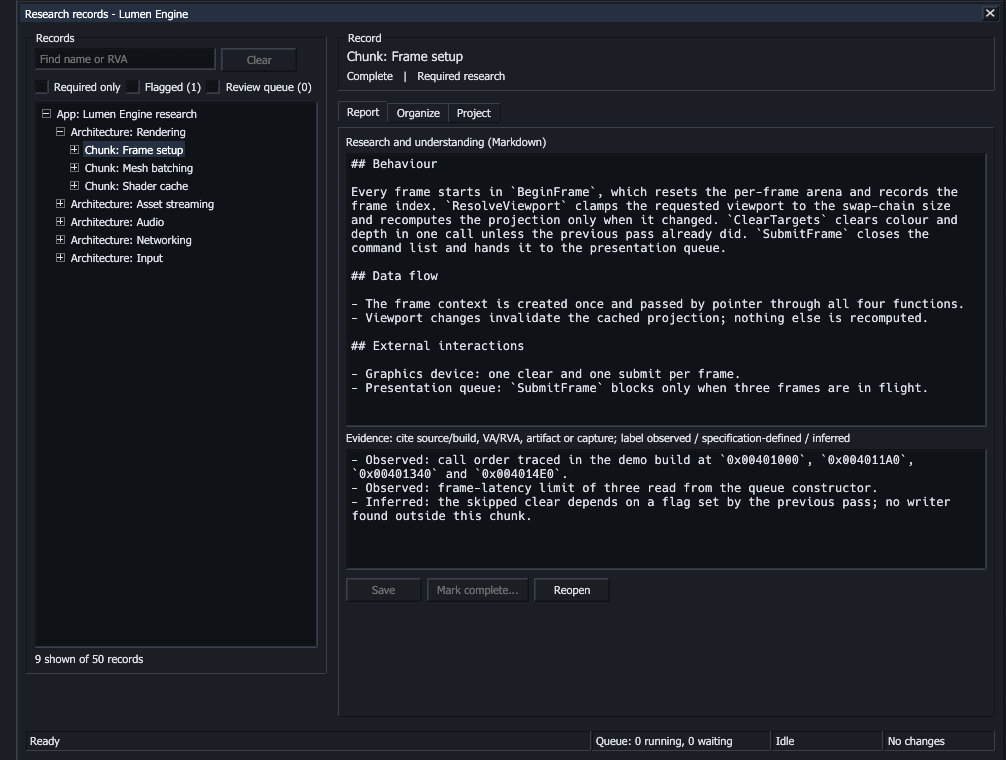
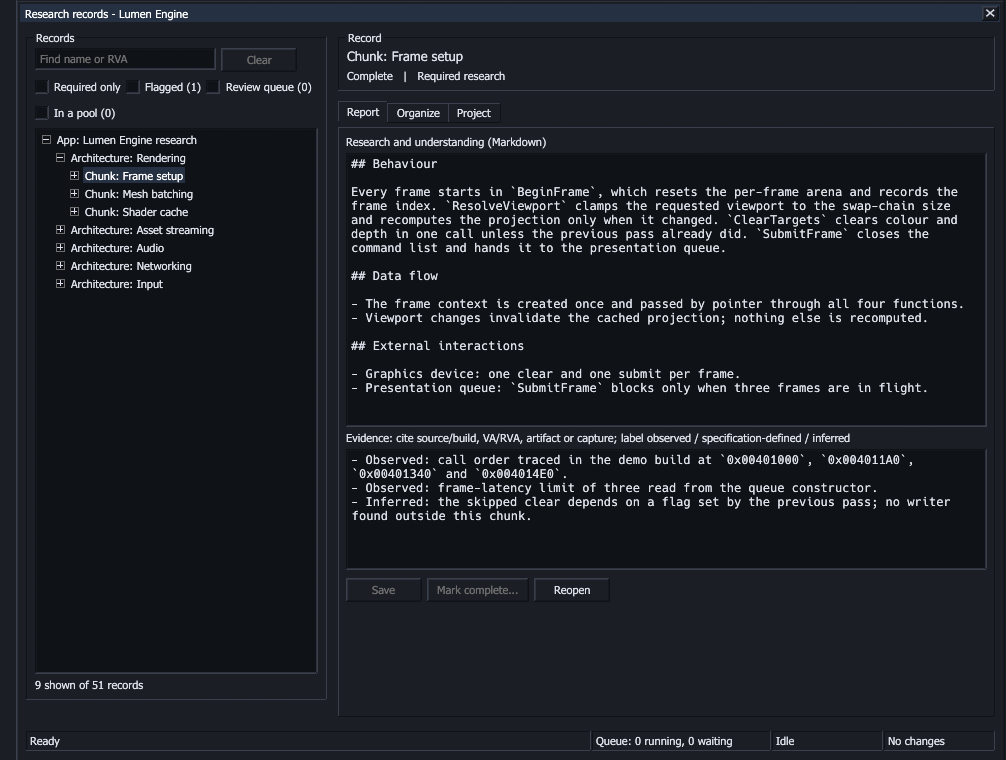
chore(release): prepare 0.15.0a
Raise the version to 0.15.0-alpha (product 0.15.0a), turn the
Unreleased changelog into the 0.15.0a section, and write the release
notes. The README and guides describe data items, address spaces, the
project store and promotion, and its screenshots are retaken from the
fictional demo project with this build (the dashboard's Research and
Implementation switch, the records window's pool filter).

Changed region(s): [[0.0308, 0.1211, 0.2157, 0.3934], [0.0308, 0.8474, 0.1541, 0.9079]]

diff --git a/CHANGELOG.md b/CHANGELOG.md
@@ -2,21 +2,37 @@
 
 ## Unreleased
 
+## 0.15.0a - 2026-10-29
+
+Release notes, validation and the commit ledger: [docs/releases/0.15.0a.md](docs/releases/0.15.0a.md). A minor release: data items, the project store and promotion, research pools and proofs are new since 0.14.0a, listed below with the fixes from the reviews of each batch.
+
+### New
+
+- **Data items** ([proposal](docs/proposal-storage-backend.md)). A chunk holds data items (globals, tables, strings, vtables) beside its functions, each with an RVA, a length in bytes and its own report in `D<RVA>/`. They are researched like functions: evidence to complete, prerequisites to and from functions, flags, claims and pools. An RVA names one record of either kind. `node create --length`, `"length"` in batches and imports, `node list --kind data`, and `data_items` counts in `status`; the record panel adds **Add data item**. The first data item raises the catalog to format 6, which earlier versions cannot open; projects without data keep format 5.
+- **The project store, side by side** ([design](docs/design-storage-backend.md), [proposal](docs/proposal-storage-backend.md)). `research store init PROJECT` (the manual migration step) builds the project's whole catalog history from its change receipts into `<project>/store/`: checksummed JSON entries per revision, catalog checkpoints and report texts compressed with zlib, each checkpoint verified against the recorded fingerprint. The store follows the receipts every writer leaves (`store sync`), so it never takes part in a commit and the files stay authoritative. A change without a receipt is recorded as a gap. `store status` shows how far behind it is and `store verify` checks it end to end. `store history PROJECT NODE` lists every revision that changed a record or its report, `store show PROJECT NODE --revision N` gives the record and its report text at revision N, and `store catalog PROJECT --revision N --out FILE` rebuilds the whole catalog at N, checked against its recorded fingerprint. The coordinator syncs a project's store when its writer is idle.
+- **The store follows the annotation ledger** ([design](docs/design-storage-promotion.md), [proposal](docs/proposal-storage-promotion.md)). `store sync`, and the coordinator whenever the ledger changes, record the project tools' ledger row by row beside the catalog history (rows and types added, removed and changed); the ledger itself stays authoritative. `store annotations PROJECT ADDRESS` shows an address's rows through that history, and `store conflicts PROJECT` lists where the catalog and the ledger disagree (names, kinds, report pins, unknown kinds), which must be resolved before the store is adopted.
+- **`store compact`** merges the small text packs frequent syncs leave and compresses closed segments' logs; a sync compacts by itself past 64 small packs.
+- **Artifacts and address spaces** ([design](docs/design-storage-promotion.md)). `project artifact add|update|remove` records a project's input files (name, SHA-256, size, format, and the artifact a file is extracted from), and `project space add|update|remove` adds address spaces besides the default one: offsets in a file (data disks with no program of their own), another image or another processor. `node create --space` and `"space"` in batches and imports place a function or data item in a space; an address is unique per space, spaced records have `S<n>-` folders, and `deps set` names them `S<n>:<RVA>`. The first artifact or space raises the catalog to format 7, which earlier versions cannot open.
+- **`store promote`** (the user's manual step) makes the store authoritative for a project once it holds the current catalog, verifies and reports no conflicts: the catalog moves to format 8, every commit appends to the store before `project.json` is written, receipts stop, and history reads the store. Interrupted commits finish on the next command as before.
+- **Acceptance covers the research body and evidence once a project is promoted.** Promotion converts every acceptance, prerequisite stamp and ledger pin that still verifies to the hash of the report from its research content on, in one transaction, and keeps every old and new hash; renames, moves and identity amendments then leave completion and pins alone. `research annotate set|remove` change annotation rows of a promoted project, recorded in its store, and `annotate stale` lists rows whose report pin no longer matches.
+- **Research pools replace quarantine** ([proposal](docs/proposal-research-pools.md)). A pooled chunk or function (`research pool add`, or **Research pool** in the record panel) can be changed only by its pool's members: saves, completion, flags, claims, proofs, its prerequisites and structural changes. Every other agent may read it and build on it, and is offered it as open work never. Unlike quarantine, its status is its own, so it stays open work until it is researched. Agents register in the home (`research agent register`), and the human directs who joins (`pool join`). `node quarantine`, `unquarantine` and `quarantined` are gone. `pool migrate-quarantine` moves 0.14 quarantine records into the pool `quarantine`; until then, writes to a project with quarantine records are refused.
+- **Proofs** ([proposal](docs/proposal-proof-records.md)). A function record can name its recreation and the tests that check it (`node proof`, `node proof-batch`). A project can require proof (`project set-proof --required true`): completing a function then needs one, and with `--repository` the cited files must exist. Functions completed earlier stay complete and are listed by `node unproven --complete` and counted in `status`. Stored in a journaled `proofs.json` sidecar.
+- **Shared work queue** ([proposal](docs/proposal-shared-work-queue.md)). `research job run --shared --resource NAME -- COMMAND` leases a resource of the research home rather than of a project, such as a verification worktree every session commits through: the same fair ordering, joining and release on a dead holder as project leases, with lock files in direct mode. It shows in `research queue --shared`, `job status --shared`, every project's `queue` (`shared_leases`) and the dashboard's queue panes.
+- **`deps set` conflicts only on the function's own prerequisites** ([proposal](docs/proposal-deps-record-token.md)). `node show` now issues an `s5:` `structural_token` that binds that function's prerequisite list and the binary identity, instead of the project-wide structural epoch. Moves, renames, report saves and other functions' prerequisite changes no longer make it stale, so sessions working one project stop invalidating each other's tokens. Cycles, missing prerequisites and the seal are still checked when `deps set` runs. `s4:` tokens keep their old meaning.
+- **Commands run as their caller through the coordinator** ([proposal](docs/proposal-caller-identity.md)). The coordinator recorded every operation under the name of the client that started it, so `impl complete` marks named the wrong agent. Each operation now runs as the submitter its own client sent.
+
+### Performance
+
+- **`store sync` after a few commits no longer reads every receipt's metadata**: it looks up only the receipts it steps over (a one-commit sync of `3-3-5a` went from 12.8 s to 1 s).
+
+### Fixed
+
 Fixes from the third and fourth bug reviews ([proposal](docs/proposal-bug-review-3.md)):
 
 - The store no longer deletes a segment log that still holds entries because its first frame is damaged or its checkpoint is missing; it refuses with `store_damaged`. Only the empty log an interrupted segment creation leaves is removed.
 - A store reader no longer fails when a compaction replaces the text packs while it reads; it indexes the store again.
 - History reports changes to artifacts, spaces and the catalog format, which showed as empty commits.
 - `node show` and the dashboard write a prerequisite in another address space as `S<n>:0x…`, so a record's prerequisites can be saved back unchanged; `node list` and implementation links show each record's `space`.
-
-- **Artifacts and address spaces** ([design](docs/design-storage-promotion.md)). `project artifact add|update|remove` records a project's input files (name, SHA-256, size, format, and the artifact a file is extracted from), and `project space add|update|remove` adds address spaces besides the default one: offsets in a file (data disks with no program of their own), another image or another processor. `node create --space` and `"space"` in batches and imports place a function or data item in a space; an address is unique per space, spaced records have `S<n>-` folders, and `deps set` names them `S<n>:<RVA>`. The first artifact or space raises the catalog to format 7, which earlier versions cannot open.
-- **`store promote`** (the user's manual step) makes the store authoritative for a project once it holds the current catalog, verifies and reports no conflicts: the catalog moves to format 8, every commit appends to the store before `project.json` is written, receipts stop, and history reads the store. Interrupted commits finish on the next command as before.
-- **Acceptance covers the research body and evidence once a project is promoted.** Promotion converts every acceptance, prerequisite stamp and ledger pin that still verifies to the hash of the report from its research content on, in one transaction, and keeps every old and new hash; renames, moves and identity amendments then leave completion and pins alone. `research annotate set|remove` change annotation rows of a promoted project, recorded in its store, and `annotate stale` lists rows whose report pin no longer matches.
-- **`store sync` after a few commits no longer reads every receipt's metadata**: it looks up only the receipts it steps over (a one-commit sync of `3-3-5a` went from 12.8 s to 1 s).
-- **`store compact`** merges the small text packs frequent syncs leave and compresses closed segments' logs; a sync compacts by itself past 64 small packs.
-- **The store follows the annotation ledger** ([design](docs/design-storage-promotion.md), [proposal](docs/proposal-storage-promotion.md)). `store sync`, and the coordinator whenever the ledger changes, record the project tools' ledger row by row beside the catalog history (rows and types added, removed and changed); the ledger itself stays authoritative. `store annotations PROJECT ADDRESS` shows an address's rows through that history, and `store conflicts PROJECT` lists where the catalog and the ledger disagree (names, kinds, report pins, unknown kinds), which must be resolved before the store is adopted.
-- **The project store, side by side** ([design](docs/design-storage-backend.md), [proposal](docs/proposal-storage-backend.md)). `research store init PROJECT` (the manual migration step) builds the project's whole catalog history from its change receipts into `<project>/store/`: checksummed JSON entries per revision, catalog checkpoints and report texts compressed with zlib, each checkpoint verified against the recorded fingerprint. The store follows the receipts every writer leaves (`store sync`), so it never takes part in a commit and the files stay authoritative. A change without a receipt is recorded as a gap. `store status` shows how far behind it is and `store verify` checks it end to end. `store history PROJECT NODE` lists every revision that changed a record or its report, `store show PROJECT NODE --revision N` gives the record and its report text at revision N, and `store catalog PROJECT --revision N --out FILE` rebuilds the whole catalog at N, checked against its recorded fingerprint. The coordinator syncs a project's store when its writer is idle.
-- **Data items** ([proposal](docs/proposal-storage-backend.md)). A chunk holds data items (globals, tables, strings, vtables) beside its functions, each with an RVA, a length in bytes and its own report in `D<RVA>/`. They are researched like functions: evidence to complete, prerequisites to and from functions, flags, claims and pools. An RVA names one record of either kind. `node create --length`, `"length"` in batches and imports, `node list --kind data`, and `data_items` counts in `status`; the record panel adds **Add data item**. The first data item raises the catalog to format 6, which earlier versions cannot open; projects without data keep format 5.
 
 Fixes from the review of this batch ([proposal](docs/proposal-review-fixes-4.md)):
 
@@ -33,12 +49,6 @@ Fixes from the review of those fixes ([proposal](docs/proposal-review-fixes-5.md
 - A write that changes nothing, or one the pool guard refuses, no longer creates an empty sidecar file (which the coordinator recorded as drift), and a repeated quarantine migration commits nothing.
 - The coordinator's queue answer shows lock files held by jobs run without a coordinator, from one scan per poll; batches check pools once.
 - The dashboard lets the human give a chunk-covered function a pool of its own.
-
-- **Shared work queue** ([proposal](docs/proposal-shared-work-queue.md)). `research job run --shared --resource NAME -- COMMAND` leases a resource of the research home rather than of a project, such as a verification worktree every session commits through: the same fair ordering, joining and release on a dead holder as project leases, with lock files in direct mode. It shows in `research queue --shared`, `job status --shared`, every project's `queue` (`shared_leases`) and the dashboard's queue panes.
-- **Research pools replace quarantine** ([proposal](docs/proposal-research-pools.md)). A pooled chunk or function (`research pool add`, or **Research pool** in the record panel) can be changed only by its pool's members: saves, completion, flags, claims, proofs, its prerequisites and structural changes. Every other agent may read it and build on it, and is offered it as open work never. Unlike quarantine, its status is its own, so it stays open work until it is researched. Agents register in the home (`research agent register`), and the human directs who joins (`pool join`). `node quarantine`, `unquarantine` and `quarantined` are gone. `pool migrate-quarantine` moves 0.14 quarantine records into the pool `quarantine`; until then, writes to a project with quarantine records are refused.
-- **Commands run as their caller through the coordinator** ([proposal](docs/proposal-caller-identity.md)). The coordinator recorded every operation under the name of the client that started it, so `impl complete` marks named the wrong agent. Each operation now runs as the submitter its own client sent.
-- **Proofs** ([proposal](docs/proposal-proof-records.md)). A function record can name its recreation and the tests that check it (`node proof`, `node proof-batch`). A project can require proof (`project set-proof --required true`): completing a function then needs one, and with `--repository` the cited files must exist. Functions completed earlier stay complete and are listed by `node unproven --complete` and counted in `status`. Stored in a journaled `proofs.json` sidecar.
-- **`deps set` conflicts only on the function's own prerequisites** ([proposal](docs/proposal-deps-record-token.md)). `node show` now issues an `s5:` `structural_token` that binds that function's prerequisite list and the binary identity, instead of the project-wide structural epoch. Moves, renames, report saves and other functions' prerequisite changes no longer make it stale, so sessions working one project stop invalidating each other's tokens. Cycles, missing prerequisites and the seal are still checked when `deps set` runs. `s4:` tokens keep their old meaning.
 
 ## 0.14.0a - 2026-10-24
 

diff --git a/docs/releases/0.15.0a.md b/docs/releases/0.15.0a.md
@@ -1,0 +1,112 @@
+# Scopework 0.15.0a
+
+**Comparison range:** `v0.14.0a..v0.15.0a` (the tag is placed on the package commit). A minor release under the version rules in [docs/building.md](../building.md): it adds features (data items, the project store and its promotion, artifacts and address spaces, research pools, proofs, the shared work queue), so 0.14.0a becomes 0.15.0a.
+
+**Upgrading.** This package is Build BUILD_PLACEHOLDER, MSI version 0.15.BUILD_SHORT. It upgrades 0.8.0 and every 0.13.x and 0.14.x package in place; the UpgradeCode, executable names and research home are unchanged. Nothing changes on upgrade: a project's catalog moves to a newer format only when it uses something new, and earlier versions then refuse it (format 6 with its first data item, 7 with an artifact or address space, 8 when promoted). A project's store is optional (`research store init`), and promotion is the owner's one-way decision. Projects with quarantine records from 0.14 refuse writes until `research pool migrate-quarantine` moves them into a pool.
+
+## What changed
+
+The full list is in the [changelog](../../CHANGELOG.md#0150a---2026-10-29); this is a summary by area.
+
+### New
+
+- **Data items** ([proposal](../proposal-storage-backend.md)). Globals, tables, strings and vtables are records beside the functions in a chunk, with an address and a length, researched like functions and connected to them by prerequisites in either direction.
+- **The project store** ([design](../design-storage-backend.md)). `research store init` builds a project's whole history from its receipts into a compressed store beside the files, which stay authoritative; `store history`, `show` and `catalog` answer for any revision; the coordinator keeps it current. It also follows the project tools' annotation ledger row by row and lists where the ledger and the catalog disagree (`store conflicts`, `store annotations`). `store compact` keeps it small: 38 MB for `3-3-5a`'s 37,910 commits, against 277 MB of receipts.
+- **Artifacts and address spaces** ([design](../design-storage-promotion.md)). A project names its input files and adds address spaces besides the default one (a file's offsets, another image, another processor), so data-only projects have somewhere to put their research.
+- **Promotion** ([design](../design-storage-promotion.md)). `research store promote`, the owner's step, makes the store authoritative: commits write it, receipts stop, and acceptance moves to the research body and evidence, so renames, moves and identity amendments no longer touch completion. `research annotate` changes annotation rows of a promoted project.
+- **Research pools replace quarantine** ([proposal](../proposal-research-pools.md)). Only a pool's registered members change its records; everyone else may read and build on them.
+- **Proofs** ([proposal](../proposal-proof-records.md)): a function can name its recreation and the tests that check it, and a project can require one to complete a function.
+- **Shared work queue** ([proposal](../proposal-shared-work-queue.md)): `job run --shared` leases a resource of the whole research home, such as a verification worktree.
+- **`deps set` conflicts only on the function's own prerequisites** ([proposal](../proposal-deps-record-token.md)), and **commands run as their caller** through the coordinator ([proposal](../proposal-caller-identity.md)).
+
+### Fixed
+
+From the reviews of each batch ([review fixes 4](../proposal-review-fixes-4.md), [5](../proposal-review-fixes-5.md)), the app-wide reviews of 2026-10-27 ([quality 1](../proposal-quality-review-1.md), [2](../proposal-quality-review-2.md), [3](../proposal-quality-review-3.md), [bugs 1](../proposal-bug-review-1.md), [2](../proposal-bug-review-2.md)) and of 2026-10-29 ([quality 4](../proposal-quality-review-4.md), [bugs 3](../proposal-bug-review-3.md)). The most important:
+- The store never deletes a segment log that still holds entries; damage is refused (`store_damaged`), not repaired away.
+- A prerequisite in another address space is written `S<n>:0x…`, so saving a record's prerequisites back cannot change them.
+- A coordinator whose home was deleted exits even with stuck work, and no longer recreates the home.
+- Pool access is checked on every write path, and only members take records out of a pool.
+
+### Performance
+
+- A store sync after a few commits looks up only the receipts it steps over (one commit on `3-3-5a`: 12.8 s to 1 s), and a promoted commit reads only the store's active segment.
+
+## Validation
+
+- **Tests:** `cargo test --all-targets` passes on Windows (250 tests). Every fix from the reviews has a regression test.
+- **Lint:** `cargo clippy --all-targets -- -D warnings` reports nothing and `cargo fmt --check` is clean.
+- **On copies of `3-3-5a`** (read only from the live home): store init, verify and compaction over 37,910 commits; a promotion rehearsal converted 5,466 acceptances with every one of 31,514 records keeping its effective status; commits after promotion take as long as a read. Details are in [the proposal](../proposal-storage-promotion.md#validation-2026-10-28).
+- **Packaging:** `installer/build.ps1` reserved Build BUILD_PLACEHOLDER and packaged `Scopework-0.15.0a-x64.msi`. The executable reports `Scopework 0.15.0a (Build BUILD_PLACEHOLDER)`; the local MSI's SHA-256 is `SHA_PLACEHOLDER`. The release workflow rebuilds the MSI from the tag with the same build number.
+- **Not done:** installing over 0.14.0a, and promoting a live project (the owner's decision).
+
+## Known limitations
+
+- **Promotion and the project tools.** The tools' staleness checks hash whole report files; after promotion pins are body hashes, so the tools must move to `research annotate stale` before a project they work on is promoted.
+- **Timing-sensitive tests.** Three tests assume a child process starts within a few hundred milliseconds and fail now and then under heavy disk load; they pass alone (recorded in `TODO.md`).
+- **Readers still load `project.json`.** The store saves history space and commit-time scans, but every reader still parses the whole catalog; moving readers onto the store is a later stage.
+- **Tab overflow** and **effective-status recursion**, as in 0.14.0a.
+
+## Commit ledger
+
+Every commit in the range, oldest first.
+
+| Commit | Type | Summary |
+| --- | --- | --- |
+| ff7060f | docs | Record the storage backend answers and sort the open questions |
+| 00c9544 | docs | Record that the backend owns annotations from promotion |
+| 270fa04 | docs | Record that acceptance covers the research text, with provenance kept |
+| 3214fd0 | docs | Add what the agents' practice shows to the storage research |
+| 4913ffa | docs | Record the work queue, pools and deps set items from the agent review |
+| 5eb641c | docs | Record that research pools replace quarantine |
+| 5214b8a | docs | Refine the research pool item with the user's clarifications |
+| ae82f78 | docs | Leave pool membership to the human's direction |
+| 60fd5e8 | fix | Bind deps set tokens to the function's own prerequisites |
+| d6348cb | feat | Record proofs and let a project require them |
+| 2cbfd7f | fix | Run each operation as the client that sent it |
+| 011915b | feat | Replace quarantine with restricted research pools |
+| db948ec | feat | Lease shared resources of the research home |
+| 378ca59 | docs | Close the shared-work items and record the coordinator test race |
+| 0da4077 | fix | Only members take records out of or move them between pools |
+| 5b85896 | perf | Look up parents once per check and read pools once per show |
+| 005f9c6 | refactor | Check every journal's intended changes in one guard |
+| 843ec06 | fix | Keep reads working when proofs.json cannot be read |
+| 8125400 | refactor | Commit single-sidecar changes through one helper |
+| 41b9f1a | fix | Restore the previous caller when an operation panics |
+| 9c0f218 | fix | Offer taking out of a pool only where it can succeed |
+| b75c9a0 | fix | Show direct-mode resource locks in the dashboard |
+| 16fad2a | docs | List the fixes from the review of the shared-work batch |
+| 4714731 | fix | Guard re-pooling of functions covered by their chunk |
+| 2fbd48f | fix | Check pools again when an import publishes |
+| 4f5b15e | fix | Create a sidecar file only in the commit that changes it |
+| 7144691 | fix | Commit nothing when there is no quarantine left to migrate |
+| 13127ec | fix | Show direct-mode lock holders in the coordinator's queue too |
+| aa9b932 | perf | Check pools once per batch, before anything is written |
+| df915a3 | fix | Let the human pool a function its chunk's pool covers |
+| 0b55f17 | docs | Drop quarantine wording and fix misplaced comments |
+| 24b3018 | refactor | Share the time, hashing, RVA and JSON-file helpers |
+| f10b865 | refactor | Remove dead branches and repeated constructions |
+| b9cb134 | refactor | Read request files and claims through shared helpers |
+| 14f50de | refactor | Pass a metadata commit's options as a struct |
+| 8a7045c | refactor | Name the report markers and share three more helpers |
+| 0141675 | refactor | Fold the last repeated blocks found by a duplicate scan |
+| b1c5b39 | fix | Stop serving a deleted home and report busy pipes |
+| 40806a1 | fix | Exit a deleted home even with stuck work, without recreating it |
+| 9689f04 | docs | Close the item the storage backend superseded |
+| 20c4deb | docs | Design data records and the store's first stage |
+| 07fdbc3 | feat | Add data items as a record kind beside functions |
+| bc1d9d6 | feat | Follow change receipts into a project store |
+| 6121dc2 | feat | Answer history from the store and follow it when idle |
+| 817f9d7 | docs | Record validation and close the data record item |
+| f4c5977 | docs | Design the storage backend's remaining stages |
+| b135e11 | feat | Follow the annotation ledger and report its conflicts |
+| 56f779a | feat | Add artifacts and address spaces |
+| c59176f | feat | Compact text packs and closed segment logs |
+| c9f823e | feat | Commit promoted projects through the store |
+| 77c7df7 | feat | Convert acceptance and take over annotations at promotion |
+| c83b0c6 | fix | Keep sync and commit costs flat and conflicts in the default space |
+| 3f6d12c | refactor | Remove repetition found in the fourth quality review |
+| 8b03dd2 | fix | Keep damaged store segments and round-trip spaced prerequisites |
+| 1d1f2fd | fix | Survive compaction under readers and report new catalog fields |
+| 81e90c7 | docs | Record that the fifth quality and bug rounds found nothing |
+| (version commit) | release | Release 0.15.0a: version, release notes, changelog, README, guides and screenshots |
+| (package commit) | build | Reserve the 0.15.0a build number |

diff --git a/README.md b/README.md
@@ -36,7 +36,8 @@ The same records are available to AI agents through a JSON command line, so seve
 App               what the project set out to understand
 └─ Architecture   a subsystem, such as Rendering or Audio
    └─ Chunk       a group of related functions
-      └─ Function one routine at one address, with its evidence
+      ├─ Function one routine at one address, with its evidence
+      └─ Data     a table, string or global at one address, with its length
 ```
 
 - **Fixed scopes.** A function report explains that function: its behaviour, inputs, outputs, side effects and connections, with evidence. A chunk synthesises its completed functions, an architecture its chunks, and the app its architectures.
@@ -53,6 +54,8 @@ App               what the project set out to understand
 - **Whole-binary inventories.** Enrol tens of thousands of functions with resumable batch imports and keep context-only code in the inventory without making it required work.
 - **Implementation tracker.** Record a recreation alongside the research: a free-form tree of its crates, modules or files, the researched functions placed where they are implemented, implementation-only items and their completion. The dashboard switches between **Research** and **Implementation** for each project.
 - **Research pools.** After a safety stop, or at the human's request, put a chunk or function in a pool. Only the pool's registered members may change it; every other agent may read it and build on it. It stays open work until a member researches it.
+- **Data items.** Globals, tables, strings and vtables are records too, researched beside the functions that use them, with prerequisites in either direction. Projects can also name their input files and address spaces, so data on a disk with no program of its own has somewhere to go.
+- **History at any revision.** An optional project store keeps every revision and report text compressed beside the files (a few tens of MB for 38,000 commits) and answers what a record and its report were at any past revision. It also follows the analysis tools' annotation ledger and lists where it disagrees with the catalog. The owner can later promote the store to be authoritative.
 - **Renames that follow through.** Renaming a record rewrites its citations in every report, without reopening the completed work they appear in.
 - **Built for several agents at once:**
   - A coordinator answers reads without waiting for writes, and merges queued saves into one commit.
@@ -80,14 +83,14 @@ research node show lumen 3                      # report, evidence, tokens and s
 research node save lumen 3 --body-file body.md --evidence-file evidence.md --expect <token>
 research node complete lumen 3 --expect <completion_token> --reviewed
 research status lumen --summary
-research --version                              # Scopework 0.14.0a (Build <number>)
+research --version                              # Scopework 0.15.0a (Build <number>)
 ```
 
-Tokens make every write conditional on what the writer last read, so concurrent agents cannot silently overwrite each other. The [CLI guide](docs/cli.md) covers batches, prerequisites, claims, the review queue, quarantine, history, dashboard groups, the implementation tracker, the coordinator and tool leases.
+Tokens make every write conditional on what the writer last read, so concurrent agents cannot silently overwrite each other. The [CLI guide](docs/cli.md) covers batches, prerequisites, data items, claims, the review queue, research pools, history, the project store, dashboard groups, the implementation tracker, the coordinator and tool leases.
 
 ## Status
 
-Scopework is **alpha** software (0.14.0a) under active development. Its formats and interfaces may still change between versions, and every change is recorded in the [changelog](CHANGELOG.md). The installers are not code-signed. Completion records are attestations of understanding made by people or agents, not an automatic judgement of research quality.
+Scopework is **alpha** software (0.15.0a) under active development. Its formats and interfaces may still change between versions, and every change is recorded in the [changelog](CHANGELOG.md). The installers are not code-signed. Completion records are attestations of understanding made by people or agents, not an automatic judgement of research quality.
 
 ## Documentation
 
@@ -97,8 +100,9 @@ Scopework is **alpha** software (0.14.0a) under active development. Its formats 
 | [Research model](docs/research-model.md) | The hierarchy, evidence, completion and prerequisites |
 | [Agent CLI](docs/cli.md) | Every command, batches, concurrency, the coordinator and tool leases |
 | [Build guide](docs/building.md) | Building from source, packaging, versions and build numbers |
-| [Changelog](CHANGELOG.md) and [release notes](docs/releases/0.14.0a.md) | What changed in each version |
+| [Changelog](CHANGELOG.md) and [release notes](docs/releases/0.15.0a.md) | What changed in each version |
 | [Coordinator design](docs/proposal-coordinator.md) | How reads, queued writes and tool work are coordinated, with measurements |
+| [Storage design](docs/design-storage-backend.md) and [promotion](docs/design-storage-promotion.md) | The project store, data items, address spaces and promotion |
 
 ## Contributing
 

diff --git a/docs/research-model.md b/docs/research-model.md
@@ -14,9 +14,9 @@ Each project owns a complete hierarchy:
     research.md
     <chunk-id>/
       research.md
-      <RVA>/
+      <RVA>/                        # a function; a data item's folder is D<RVA>, and S<n>- prefixes either in another address space
         research.md
-        data/                       # created when used: this function's captures, exports and raw evidence
+        data/                       # created when used: this record's captures, exports and raw evidence
   tools/
     README.md
     profiles/
@@ -28,7 +28,11 @@ Each project owns a complete hierarchy:
     scratch/                    # shared temporary working data
 ```
 
-Select a parent and create its child: App -> Architecture -> Chunk -> Function. Architectures are categories such as Asset Loading or Models. Enter the exact binary build/hash and image base before adding functions. Function identity is an RVA within that project's binary. A function cannot be duplicated elsewhere in the same project. Different binaries require separate projects.
+Select a parent and create its child: App -> Architecture -> Chunk -> Function or data item. Architectures are categories such as Asset Loading or Models. Enter the exact binary build/hash and image base before adding functions. Function identity is an RVA within that project's binary. A function cannot be duplicated elsewhere in the same project. Different binaries require separate projects.
+
+**Data items** (globals, tables, strings, vtables) sit in a chunk beside its functions, with a start RVA and a length in bytes, and are researched like functions: their own report, evidence to complete, prerequisites to and from functions, flags, claims and pools. An address names at most one record of either kind. Use **Add data item** on a chunk's Organize tab, or `node create --length`.
+
+**Artifacts and address spaces.** A project can name its input files (disk images, files extracted from them, ROMs) with their SHA-256, and add address spaces besides the default one: offsets in one file (for data disks with no program of their own), another loaded image, or another processor. A record placed in a space is unique by its address within that space. These are entered with the [CLI](cli.md#artifacts-and-address-spaces).
 
 The editor updates each canonical Markdown file in place. Parent reports link their direct source reports: architecture to chunks, chunks to function files. Function evidence remains in the function file instead of being copied into parallel reports. Parent synthesis is authored in the parent's own report; linking children alone does not complete it.
 
@@ -43,6 +47,7 @@ The inventory covers the whole binary even when the label describes a selected r
 Research uses fixed assignments within expanding levels of understanding:
 
 - **Function:** Establish its behavior, inputs, outputs, side effects, boundaries and connections with evidence.
+- **Data item:** Explain its layout, values, meaning and users, supported by evidence.
 - **Chunk:** Synthesize completed function reports to explain the chunk's behavior, control flow, data flow and external interactions.
 - **Architecture/category:** Synthesize completed chunk reports to explain subsystem behavior and interfaces.
 - **App:** Synthesize completed architecture reports to fulfill the project's declared research scope and explain relevant subsystem interactions.
@@ -106,3 +111,9 @@ For large catalogs, use the [batch CLI](cli.md#whole-binary-inventory-and-batch-
 ## Research pools
 
 A chunk or function can be put in a research pool: after an agent hits a safety stop on it, or at the human's request. Only the pool's registered members may change it; every other agent may read it and build on it as a prerequisite, and never sees it as open work. Its status is its own, so it counts as open work until it is researched, and a completed record stays in its pool. The human directs which agents join which pool, and the dashboard is never refused. Pools replace 0.14's quarantine. The GUI marks pooled records ⊘. Details are in the [CLI guide](cli.md#research-pools).
+
+## The project store and promotion
+
+`research store init` (a manual step) keeps a project's whole history in a compressed store beside its files: every catalog revision, every report text, and the project tools' annotation ledger row by row. It follows the files, which stay authoritative, and answers questions the files cannot, such as a record and its report at any past revision. The coordinator keeps it current.
+
+`research store promote` (the owner's decision) makes the store authoritative: commits write it directly, no receipts are written, and acceptance moves from the whole report file to its research body and evidence, so renames, moves and identity amendments no longer touch completion. Promotion converts every acceptance that still verifies and keeps the old values. See the [CLI guide](cli.md#the-project-store-side-by-side).

diff --git a/docs/installation.md b/docs/installation.md
@@ -50,6 +50,15 @@ Re-running the same-version MSI offers Repair or Uninstall. Uninstall removes ap
 
 Setup uses Windows Installer's embedded cabinet rather than a separate app-owned extraction/updater cache. Windows manages its installation scratch and repair cache; Scopework does not delete that cache or your downloaded MSI. Empty application, documentation, asset and shortcut directories are removed on uninstall/upgrade. Unknown files in those directories are preserved. Package-build temporary files are cleaned on success or failure.
 
+## Version 0.15.0a formats
+
+Nothing changes on upgrade. A project's catalog moves to a newer format only when it uses something new, and earlier versions then refuse to open it:
+- format 6 when its first data item is created;
+- format 7 when it gains an artifact, an address space or a record in one;
+- format 8 when its owner promotes it to the store (`research store promote`), which is one-way.
+
+Projects that use none of these keep format 5 and open in earlier versions. A project's store (`research store init`) is optional and lives in its `store/` folder; earlier versions ignore it.
+
 ## Version 0.6.0 journal upgrade
 
 Finish or cancel active imports with the previous version, then close all old GUI/CLI processes. The first project open upgrades its compatibility marker to format 5 under an exclusive library gate, retaining one pre-upgrade catalog in `tools/workspaces/layout-migration-v5`. Reports and supporting evidence do not change. Older executables reject format 5 because they cannot recover the new delta journals.
